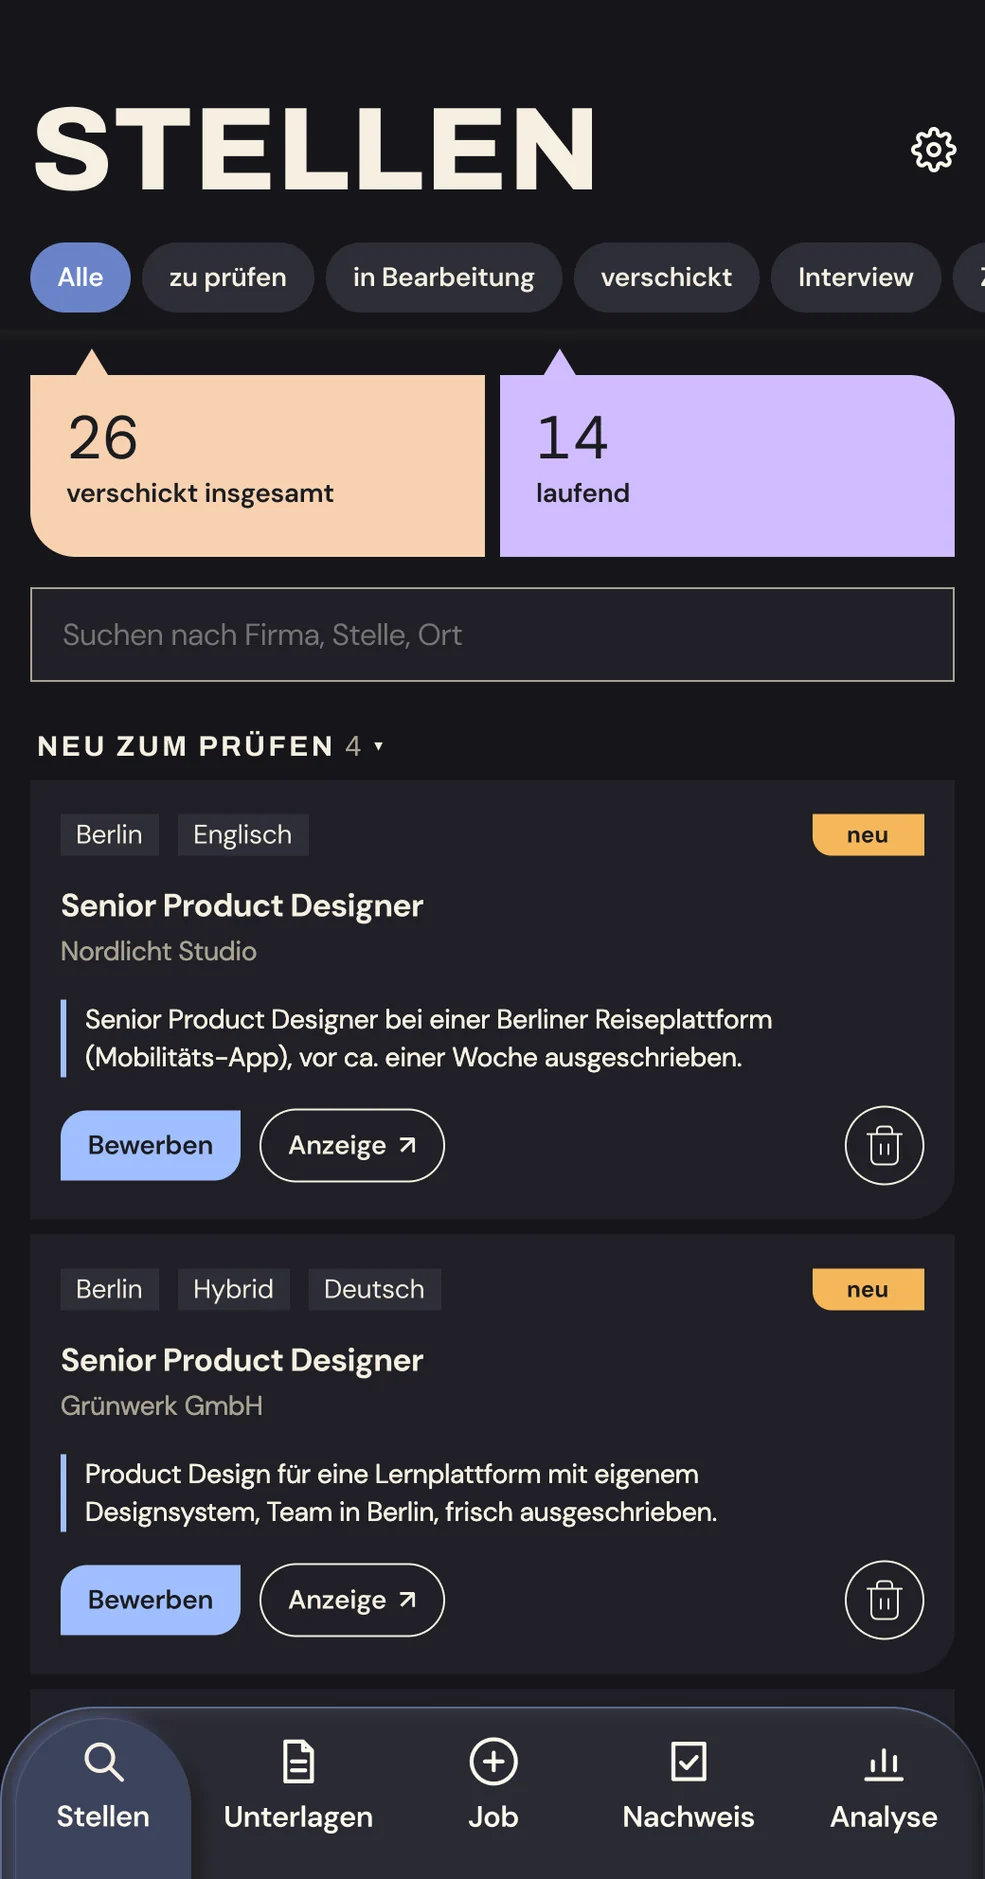
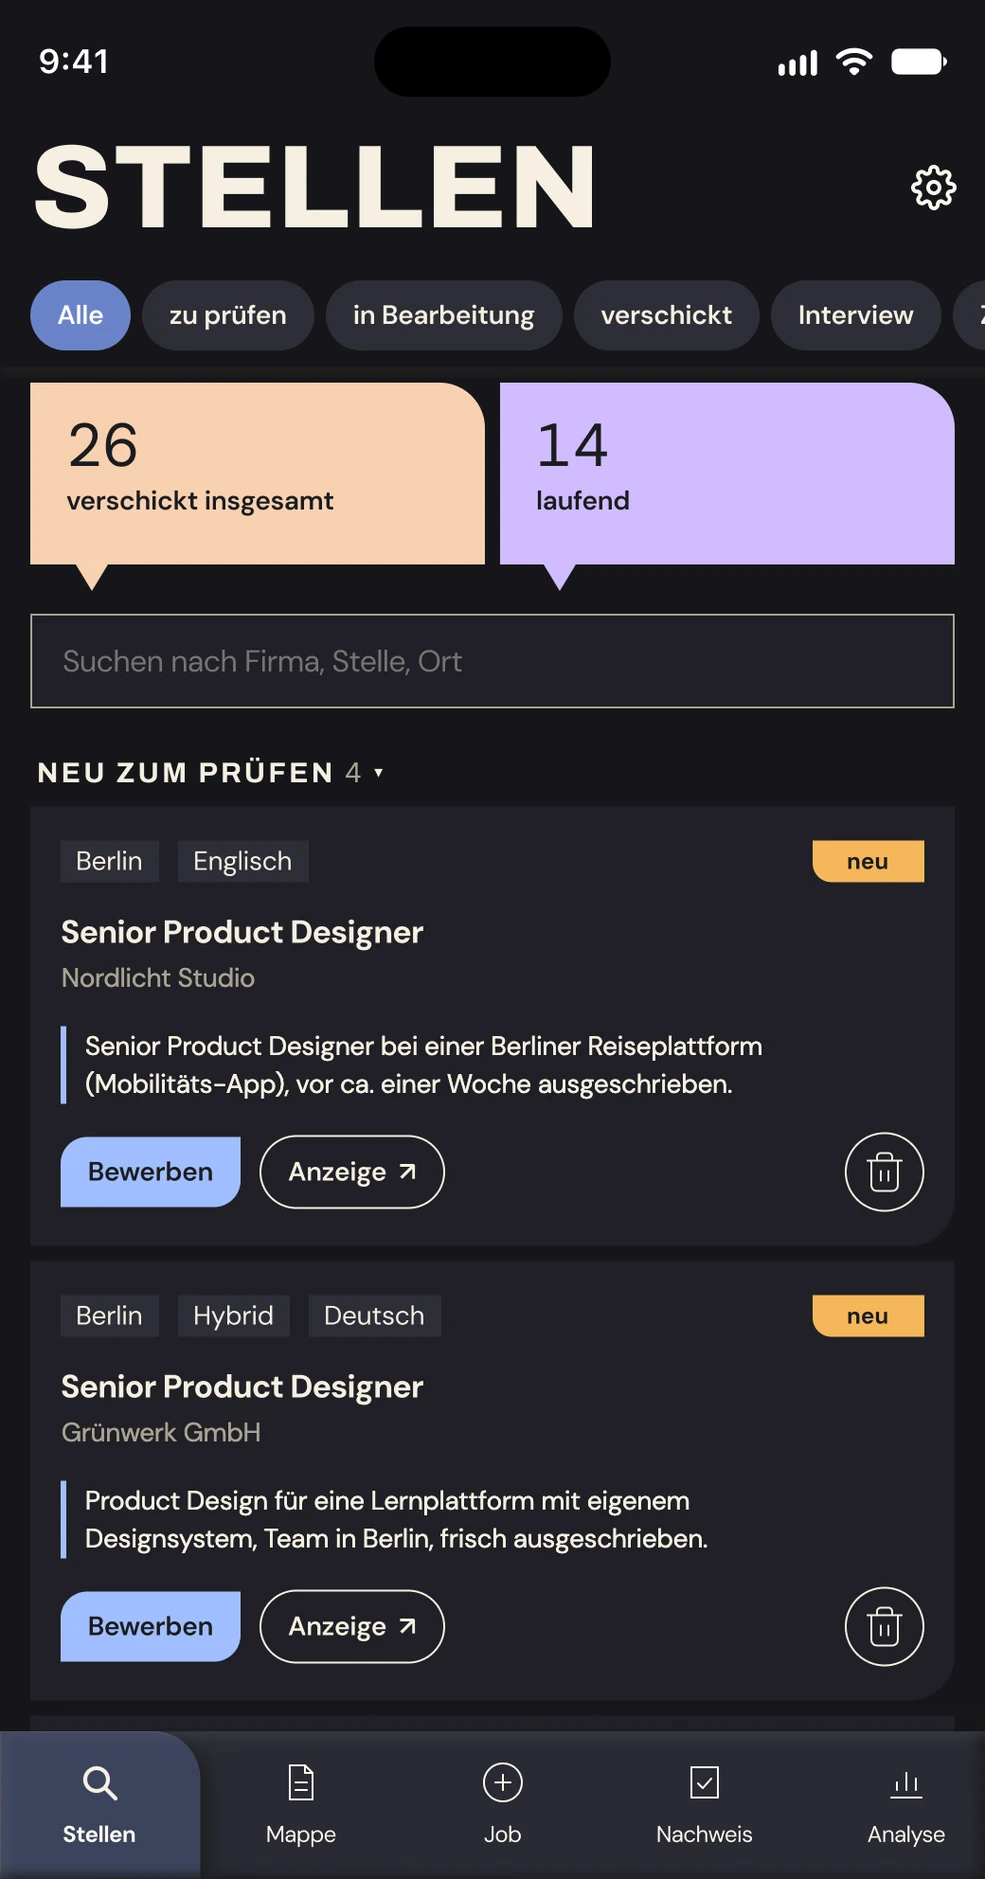
Bewerbungsradar: finaler Stellen-Screen aus Figma (Statusleiste, Reiter Mappe) in Case Study, Hero, Karussell und Teaser

diff --git a/cs-bewerbungsradar.html b/cs-bewerbungsradar.html
@@ -72,7 +72,7 @@
   <!-- ================= 01 HERO ================= -->
   <section class="cs-hero">
     <div class="wrap">
-      <img class="cs-img cs-hero-img" src="images/radar-hero.webp?v=2" width="2400" height="773" alt="Bewerbungsradar: lila Sprechblase mit Lupe, Handy mit dem Reiter „Stellen“, gezeichnete Hände mit Lupe und Papierflieger, dazu die Sprechblasen Finden, Ordnen, Belegen" data-i18n-alt="rd.hero">
+      <img class="cs-img cs-hero-img" src="images/radar-hero.webp?v=3" width="2400" height="773" alt="Bewerbungsradar: lila Sprechblase mit Lupe, Handy mit dem Reiter „Stellen“, gezeichnete Hände mit Lupe und Papierflieger, dazu die Sprechblasen Finden, Ordnen, Belegen" data-i18n-alt="rd.hero">
     </div>
 
     <div class="cs-hero-head">
@@ -238,7 +238,7 @@
 
       <div class="cs-pair rd-phones">
         <img class="cs-img rd-shot" src="images/radar-screen-v1.webp?v=2" width="985" height="1879" loading="lazy" alt="Erste Version des Reiters „Stellen“ auf hellem Grund: vier farbige Kacheln mit Zahlen, Suchfeld, Filter-Chips und Karten mit neuen Stellen" data-i18n-alt="rd.v1">
-        <img class="cs-img rd-shot" src="images/radar-screen-stellen.webp?v=3" width="985" height="1879" loading="lazy" alt="Reiter „Stellen“ nach dem Figma-Redesign auf dunklem Grund: große Überschrift, Status-Filter, zwei Kacheln für verschickt und laufend, Suchfeld, Karten mit neuen Stellen und eine Navigationsleiste mit fünf Reitern" data-i18n-alt="rd.stellen">
+        <img class="cs-img rd-shot" src="images/radar-screen-stellen.webp?v=4" width="985" height="1879" loading="lazy" alt="Reiter „Stellen“ nach dem Figma-Redesign auf dunklem Grund: große Überschrift, Status-Filter, zwei Kacheln für verschickt und laufend, Suchfeld, Karten mit neuen Stellen und eine Navigationsleiste mit fünf Reitern" data-i18n-alt="rd.stellen">
       </div>
       <p data-only="de">Der erste Entwurf hatte drei Reiter: Stellen, Unterlagen und Nachweis. Der Reiter „Analyse“ kam erst im Lauf der Entwicklung dazu. Daran sieht man, wie das Produkt während der Entstehung gewachsen ist: vom Sammeln und Belegen hin zum Auswerten der eigenen Bewerbungen.</p>
       <p data-only="en">The first draft had three tabs: Jobs, Documents and Proof. The “Analytics” tab was only added later in development. It shows how the product grew while it was being built: from collecting and documenting to analysing your own applications.</p>
@@ -436,7 +436,7 @@
           <p data-only="en"><b>Still open:</b> So far, I’m the only one who has tested the app. Tests with other job seekers haven’t happened yet and are the next step.</p>
           <p class="cs-proto-line"><a class="btn-view is-inline" href="https://bewerbungsradar.vercel.app" target="_blank" rel="noopener"><span data-only="de">Zur Live-App</span><span data-only="en">Open the live app</span></a> <span class="rd-note"><span data-only="de">(Anmeldung per E-Mail)</span><span data-only="en">(sign-in via email)</span></span></p>
         </div>
-        <img class="cs-img is-fill" src="images/radar-tile.webp?v=2" width="1200" height="1500" loading="lazy" alt="Handy mit dem Reiter „Stellen“ des Bewerbungsradars, umgeben von der lila Sprechblase, gezeichneten Händen und den Sprechblasen Finden, Ordnen, Belegen" data-i18n-alt="rd.tile">
+        <img class="cs-img is-fill" src="images/radar-tile.webp?v=3" width="1200" height="1500" loading="lazy" alt="Handy mit dem Reiter „Stellen“ des Bewerbungsradars, umgeben von der lila Sprechblase, gezeichneten Händen und den Sprechblasen Finden, Ordnen, Belegen" data-i18n-alt="rd.tile">
       </div>
 
       <div class="cs-cols3">

diff --git a/index.html b/index.html
@@ -144,7 +144,7 @@
       <li class="sm-tile sm-tall">
         <div class="sm-pic rd-anim" role="img" aria-label="Handy mit dem Reiter „Stellen“ des Bewerbungsradars: ein Papierflieger startet aus einer gezeichneten Hand, nacheinander erscheinen die Sprechblasen Finden, Ordnen, Belegen" data-i18n-aria="sm.radar">
           <div class="rd-stage">
-            <img class="rd-l-bg" src="images/radar-tile-bg.webp?v=2" width="1200" height="1500" loading="lazy" alt="">
+            <img class="rd-l-bg" src="images/radar-tile-bg.webp?v=3" width="1200" height="1500" loading="lazy" alt="">
             <img class="rd-l rd-l-lupe" src="images/radar-tile-lupe.webp" width="270" height="317" loading="lazy" alt="">
             <img class="rd-l rd-l-hand" src="images/radar-tile-hand.webp" width="364" height="364" loading="lazy" alt="">
             <img class="rd-l rd-l-plane" src="images/radar-tile-plane.webp" width="293" height="161" loading="lazy" alt="">

diff --git a/all-projects.html b/all-projects.html
@@ -89,7 +89,7 @@
 
       <!-- Bewerbungsradar (eigene App, in Weiterentwicklung; Text links, Bild rechts) -->
       <article class="card card-dark card-feature card-feature-rev">
-        <div class="pic-box"><img class="pic" src="images/radar-hero.webp?v=2" width="2400" height="773" alt="Bewerbungsradar: lila Sprechblase mit Lupe, Handy mit dem Reiter „Stellen“, gezeichnete Hände mit Lupe und Papierflieger, dazu die Sprechblasen Finden, Ordnen, Belegen" data-i18n-alt="rd.hero"></div>
+        <div class="pic-box"><img class="pic" src="images/radar-hero.webp?v=3" width="2400" height="773" alt="Bewerbungsradar: lila Sprechblase mit Lupe, Handy mit dem Reiter „Stellen“, gezeichnete Hände mit Lupe und Papierflieger, dazu die Sprechblasen Finden, Ordnen, Belegen" data-i18n-alt="rd.hero"></div>
         <div class="txt">
           <div>
             <h3>Bewerbungsradar</h3>
